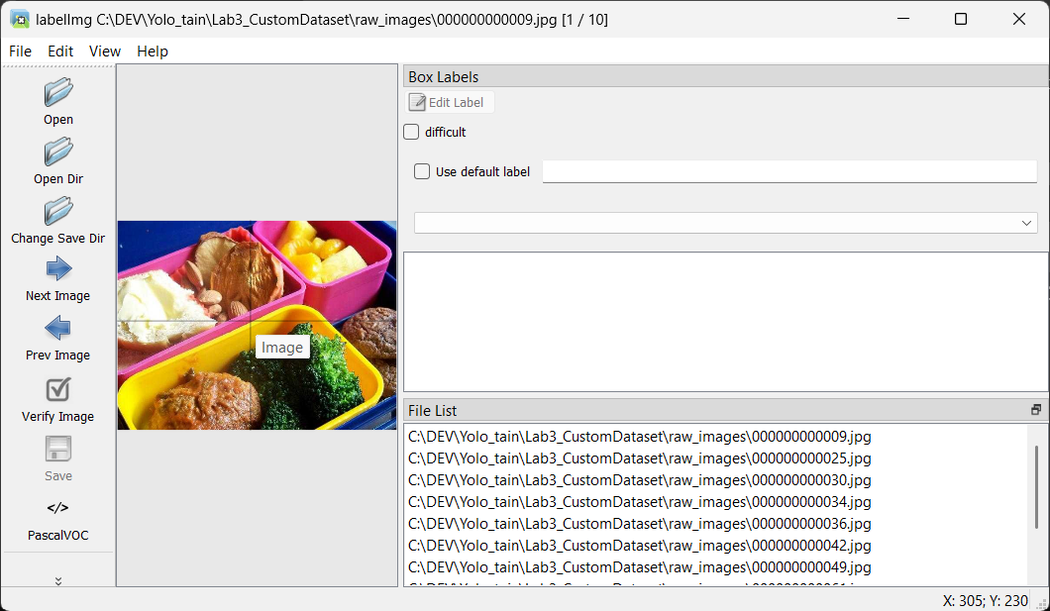
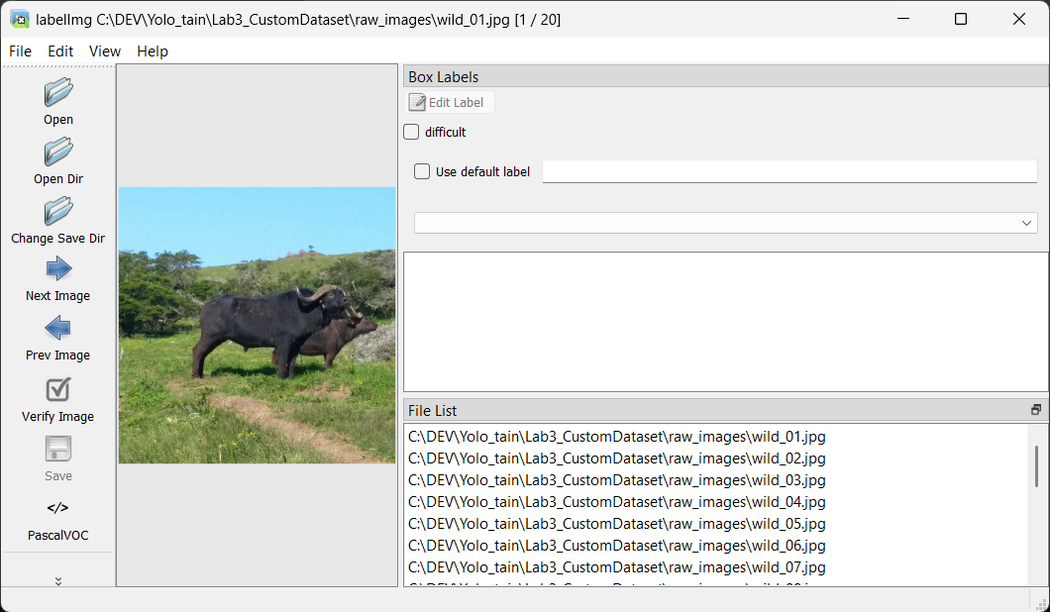
Lab4: two training runs that measure what data quantity is worth
Lab 4 was three paragraphs of hyperparameter advice with no numbers behind it.
It now runs the same problem twice - once on the 20 images the student labelled
in Lab 3, once on the full african-wildlife set - and only then moves on to
tuning, because the comparison shows tuning is the smaller lever.

Scripts: train_baseline (Lab 3 dataset), train_full (african-wildlife),
train_custom (env-var driven), and compare_runs.py, which reads results.csv
from every run and tabulates the best epoch of each ranked by mAP50-95.
Dropped the relative project= that would have nested output under
runs/detect/Lab4_TrainTuning/runs, and set batch=8 because 4GB cards do not
survive 16 at imgsz=640.

The runs, both on this machine:
- 20 images  -> mAP50-95 0.553, recall 0.500, elephant 0.000 despite ten
  elephants in val. The model misses half of everything while mAP50 0.621
  gives no hint of it.
- 1052 images -> mAP50-95 0.811, recall 0.910, elephant 0.953. 47% better
  mAP50-95 with no hyperparameter touched, for 13 minutes instead of 30 seconds.

The manual reads those two runs for three lessons: never trust the aggregate
over the per-class table, never trust a metric measured on one val instance
(buffalo scores 0.995 on a single val object in round 1 and 0.959 on 89 in
round 2 - the lower number is the trustworthy one), and ask whether there is
enough data before asking which knob to turn.

Lab 3 figures: main window and draw mode retaken with the wildlife images. The
[…]

diff --git a/Lab4_TrainTuning/manual.html b/Lab4_TrainTuning/manual.html
@@ -50,6 +50,14 @@ footer{margin-top:50px;color:var(--muted);font-size:12px;text-align:center}
 .top-index a{color:#7dbaff;text-decoration:none}
 .grid{display:grid;grid-template-columns:1fr 1fr;gap:14px}
 @media(max-width:640px){.grid{grid-template-columns:1fr}}
+figure{margin:18px 0;background:var(--panel2);border:1px solid var(--border);border-radius:12px;padding:12px}
+figure img{display:block;width:100%;height:auto;border-radius:8px}
+figcaption{color:var(--muted);font-size:13px;margin-top:10px;text-align:center}
+.walk{background:var(--panel2);border:1px solid var(--border);border-left:4px solid var(--accent2);border-radius:8px;padding:14px 18px;margin:16px 0}
+.walk h4{margin:0 0 10px;font-size:15px;color:var(--accent2)}
+.walk table{font-size:13.5px}
+.walk td:first-child{white-space:nowrap;vertical-align:top;color:#7dd3fc;font-family:Consolas,monospace}
+.out{border-left:4px solid var(--muted)}
 </style>
 </head>
 <body>
@@ -63,49 +71,158 @@ footer{margin-top:50px;color:var(--muted);font-size:12px;text-align:center}
 <div class="card">
 <h2>🎯 วัตถุประสงค์</h2>
 <ul>
-<li>Train YOLO ด้วย Dataset ของตัวเอง (จาก Lab 3)</li>
-<li>ทดลองปรับ Hyperparameter: <code>epochs</code>, <code>imgsz</code>, ขนาดโมเดล (n/s/m) เพื่อหาค่าที่เหมาะสมที่สุด</li>
+<li>เทรนโจทย์เดียวกัน <b>2 รอบ</b> — รอบแรกด้วย 20 รูปที่ label เองใน Lab 3 อีกรอบด้วยชุดเต็มพันกว่ารูป — แล้ววัดว่าต่างกันแค่ไหน</li>
+<li>ทดลองปรับ Hyperparameter (<code>epochs</code>, <code>imgsz</code>, ขนาดโมเดล) แล้วเทียบผลอย่างเป็นระบบ</li>
+<li>ตอบให้ได้ว่า <b>ระหว่าง "เพิ่มข้อมูล" กับ "ปรับค่า" อะไรให้ผลมากกว่ากัน</b></li>
 </ul>
 </div>
 
+<div class="card">
+<h2>🗺 Lab นี้จะทำอะไร</h2>
+<div class="filetree">รอบที่ 1  train_baseline.bat  -> 20 รูปที่คุณ label เอง (Lab 3)   -> runs\detect\baseline\
+รอบที่ 2  train_full.bat      -> african-wildlife ชุดเต็ม ~1,050 รูป -> runs\detect\full\
+                                 (คลาสเดียวกันเป๊ะ: buffalo/elephant/rhino/zebra)
+รอบที่ 3+ train_custom.bat    -> ปรับค่าแล้วลองใหม่                  -> runs\detect\exp\
+
+          compare_runs.bat    -> เอาทุกรอบมาเรียงเทียบกันในตารางเดียว</div>
+<p><b>รอบที่ 1 กับ 2 ต่างกันแค่จำนวนข้อมูลอย่างเดียว</b> — คลาสเหมือนกัน โมเดลตั้งต้นเหมือนกัน ค่าอื่นเหมือนกันหมด
+สิ่งที่ได้จึงเป็นคำตอบตรง ๆ ว่าจำนวนข้อมูลมีผลแค่ไหน</p>
+</div>
+
 <div class="step"><span class="n">Step 1</span>
-<h3>Train ด้วยค่าพื้นฐาน (Baseline)</h3>
+<h3>รอบที่ 1 — เทรนด้วยข้อมูลที่ label เอง</h3>
 <pre>cd Lab4_TrainTuning\scripts
 .\train_baseline.bat</pre>
-<p>ค่าเริ่มต้น: <code>model=yolo11n.pt epochs=50 imgsz=640</code> — จดผลลัพธ์ mAP ที่ได้ไว้เป็นค่าฐาน (baseline)</p>
+<p>ใช้ <code>Lab3_CustomDataset\dataset\data.yaml</code> ที่ได้จาก Lab 3 (20 รูป แบ่งเป็น train 16 / val 4)
+ค่าที่ใช้: <code>model=yolo11n.pt epochs=50 imgsz=640 batch=8</code> — เทรนเสร็จในไม่กี่นาที</p>
+
+<h4>ผลที่ได้จริง</h4>
+<pre class="out">                   all          4         15      0.689        0.5      0.621      0.553
+               buffalo          1          1      0.959          1      0.995      0.995
+              elephant          1         10          0          0          0          0
+                 rhino          1          2      0.798          1      0.995       0.92
+                 zebra          1          2          1          0      0.495      0.297</pre>
+<div class="danger"><b>ดูบรรทัด <code>elephant</code> ให้ดี — ได้ 0 ทุกช่อง</b><br>
+ทั้งที่ในชุด val มีช้างอยู่ <b>10 ตัว</b> ซึ่งมากที่สุดในบรรดาทุกคลาส แต่โมเดล<b>หาไม่เจอเลยแม้แต่ตัวเดียว</b><br>
+สาเหตุคือในชุด train 16 รูป มีตัวอย่างช้างน้อยเกินกว่าที่โมเดลจะเรียนรู้ได้ ส่วน <code>buffalo</code> กับ <code>rhino</code> ที่ได้ 0.995 นั้นก็ไม่ได้แปลว่าเก่งจริง — มีตัวอย่างใน val แค่คลาสละ 1-2 ตัว ทายถูกตัวเดียวก็เต็มแล้ว<br>
+<b>นี่คือหน้าตาของโมเดลที่ข้อมูลไม่พอ</b> ตัวเลขรวม mAP50 = 0.621 ดูเหมือนพอใช้ได้ แต่พอแยกรายคลาสจะเห็นว่ามันใช้งานจริงไม่ได้เลย</div>
+<div class="tip"><b>บทเรียนที่ 1: อย่าดูแต่ตัวเลขรวม</b> — ตารางแยกรายคลาสคือที่ที่ปัญหาจริงซ่อนอยู่ ค่า mAP รวมเฉลี่ยความล้มเหลวของคลาสหนึ่งกลบไปกับความสำเร็จของอีกคลาสได้เสมอ</div>
 </div>
 
 <div class="step"><span class="n">Step 2</span>
-<h3>ทดลองปรับค่าทีละตัว</h3>
-<p>แก้ไขค่าตัวแปรด้านบนของไฟล์ <code>train_custom.bat</code> แล้วรันซ้ำ เปรียบเทียบผลลัพธ์:</p>
-<table>
-<tr><th>พารามิเตอร์</th><th>ผลกระทบ</th></tr>
-<tr><td><code>epochs</code></td><td>รอบการเรียนรู้ยิ่งมาก โมเดลยิ่งแม่น แต่เสี่ยง overfitting และใช้เวลานานขึ้น</td></tr>
-<tr><td><code>imgsz</code></td><td>ภาพยิ่งใหญ่ ยิ่งเห็นรายละเอียดเล็กๆ ได้ดีขึ้น แต่ใช้ VRAM/เวลามากขึ้น</td></tr>
-<tr><td><code>model</code></td><td>n (nano) เร็วสุด เหมาะ Edge, m/l แม่นขึ้นแต่หนักขึ้น</td></tr>
-<tr><td><code>batch</code></td><td>batch ใหญ่เทรนเสถียรกว่า แต่ต้องมี VRAM พอ</td></tr>
-</table>
-<pre>set EPOCHS=100
-set IMGSZ=640
-set MODEL=yolo11s.pt
-set BATCH=16
+<h3>รอบที่ 2 — เทรนด้วยชุดเต็ม</h3>
+<pre>.\train_full.bat</pre>
+<p>โจทย์เดิม คลาสเดิม ค่าเดิมทุกอย่าง เปลี่ยนแค่ข้อมูลจาก 20 รูปเป็น <b>1,052 รูป</b>
+(ครั้งแรกจะดาวน์โหลด ~100 MB ถ้ายังไม่ได้รัน <code>prefetch.bat</code> จาก Lab 0)</p>
+<div class="warn">รอบนี้ใช้เวลาจริงประมาณ <b>13 นาที</b> บนการ์ด RTX 3050 Ti (4 GB) — ถ้าเครื่องช้ากว่านี้อาจถึงครึ่งชั่วโมง ปล่อยให้มันรันไป ระหว่างนั้นไปอ่านหัวข้อ Hyperparameter ข้างล่างก่อนได้</div>
 
-cd Lab4_TrainTuning\scripts
-.\train_custom.bat</pre>
+<h4>ผลที่ได้จริง</h4>
+<figure>
+  <img src="../docs/images/lab4_full_result.png" alt="ผลการเทรนชุดเต็ม แสดง mAP50 0.961 และผลแยกรายคลาสทั้งสี่">
+  <figcaption>ท้ายผลการเทรนรอบที่ 2 — เทียบบรรทัด <code>elephant</code> กับรอบแรกที่ได้ 0 ทุกช่อง</figcaption>
+</figure>
+<table>
+<thead><tr><th>คลาส</th><th>รอบ 1 (20 รูป) mAP50</th><th>รอบ 2 (1,052 รูป) mAP50</th></tr></thead>
+<tbody>
+<tr><td><code>buffalo</code></td><td>0.995 <span style="color:#9aa4b2">(val มี 1 ตัว)</span></td><td>0.959 <span style="color:#9aa4b2">(val มี 89 ตัว)</span></td></tr>
+<tr><td><code>elephant</code></td><td><b style="color:#ef4444">0.000</b></td><td><b style="color:#22c55e">0.953</b></td></tr>
+<tr><td><code>rhino</code></td><td>0.995 <span style="color:#9aa4b2">(val มี 2 ตัว)</span></td><td>0.970</td></tr>
+<tr><td><code>zebra</code></td><td>0.495</td><td>0.962</td></tr>
+</tbody>
+</table>
+<div class="tip"><b>บทเรียนที่ 2: ตัวเลขที่ดูสวยจาก val ชุดเล็ก เชื่อไม่ได้</b> — <code>buffalo</code> ในรอบแรกได้ 0.995 ซึ่ง<i>สูงกว่า</i>รอบที่สองที่ได้ 0.959 เสียอีก แต่รอบแรกวัดจากควายตัวเดียว ส่วนรอบสองวัดจาก 89 ตัว<br>
+เลข 0.959 ที่วัดจาก 89 ตัวอย่าง <b>น่าเชื่อถือกว่า</b> เลข 0.995 ที่วัดจากตัวอย่างเดียวมาก — เวลาอ่านผล ให้ดูคอลัมน์ <code>Instances</code> ควบคู่ไปด้วยเสมอ</div>
 </div>
 
 <div class="step"><span class="n">Step 3</span>
-<h3>เปรียบเทียบผลลัพธ์แต่ละรอบ</h3>
-<p>แต่ละครั้งที่ Train ผลจะถูกเก็บแยกโฟลเดอร์ (<code>runs\exp1</code>, <code>runs\exp2</code>, ...) ให้เปิด <code>results.png</code> ของแต่ละรอบเทียบกัน และจดค่า <b>mAP50-95</b> ลงตาราง</p>
+<h3>เอาสองรอบมาเทียบกัน</h3>
+<pre>.\compare_runs.bat</pre>
+<p>สคริปต์จะอ่าน <code>results.csv</code> ของทุกรอบใน <code>runs\detect\</code> แล้วดึงค่าของ epoch ที่ดีที่สุดมาเรียงให้
+(ระบุชื่อรอบต่อท้ายได้ถ้าอยากเลือกเฉพาะบางรอบ เช่น <code>.\compare_runs.bat baseline full</code>)</p>
+<figure>
+  <img src="../docs/images/lab4_compare.png" alt="ตารางเทียบผลรอบ baseline กับ full">
+  <figcaption>ตารางจริงจากการรันทั้งสองรอบบนเครื่องเดียวกัน</figcaption>
+</figure>
+<table>
+<thead><tr><th>ตัวชี้วัด</th><th>20 รูป</th><th>1,052 รูป</th><th>ดีขึ้น</th></tr></thead>
+<tbody>
+<tr><td><b>mAP50-95</b></td><td>0.553</td><td>0.811</td><td>+47%</td></tr>
+<tr><td>mAP50</td><td>0.621</td><td>0.961</td><td>+55%</td></tr>
+<tr><td>precision</td><td>0.692</td><td>0.954</td><td>+38%</td></tr>
+<tr><td><b>recall</b></td><td>0.500</td><td>0.910</td><td><b>+82%</b></td></tr>
+<tr><td>เวลาเทรน</td><td>0.5 นาที</td><td>13.2 นาที</td><td>ช้าลง 26 เท่า</td></tr>
+</tbody>
+</table>
+<div class="danger"><b>ดู recall ให้ดี: 0.500 แปลว่าโมเดลรอบแรกมองข้ามวัตถุไปครึ่งหนึ่ง</b><br>
+เจอเท่าไรก็ทายค่อนข้างถูก (precision 0.692) แต่<b>หาไม่เจอตั้งครึ่ง</b> — ถ้าเอาโมเดลแบบนี้ไปคัดของบนสายพานใน Lab 9 ของเสียครึ่งหนึ่งจะไหลผ่านไปหน้าตาเฉย โดยที่ตัวเลข mAP50 = 0.621 ไม่ได้ส่งสัญญาณอะไรให้เลย</div>
+
+<figure>
+  <img src="../docs/images/lab4_full_results.png" alt="กราฟ results.png ของรอบชุดเต็ม แสดง loss ลดลงและ mAP ไต่ขึ้นอย่างต่อเนื่อง">
+  <figcaption><code>runs\detect\full\results.png</code> — เทียบกับกราฟของ Lab 1 ที่เส้นกระโดดขึ้นลงและ recall แบนราบ รอบนี้ทุกเส้นเรียบและไต่ขึ้นต่อเนื่อง เพราะแต่ละ epoch เห็นข้อมูลมากพอ</figcaption>
+</figure>
+
+<div class="card">
+<h3>💡 สรุปบทเรียนหลักของ Lab นี้</h3>
+<p>การเพิ่มข้อมูลจาก 20 เป็น 1,052 รูป ทำให้ <b>mAP50-95 ขึ้น 47%</b> โดยไม่ได้แตะค่า hyperparameter สักตัว</p>
+<p>ในทางปฏิบัติ การปรับ <code>epochs</code>, <code>imgsz</code>, ขนาดโมเดล มักช่วยได้ในระดับ <b>ไม่กี่เปอร์เซ็นต์</b> เท่านั้น
+เทียบกันแล้วคนละสเกล — <b>ถ้าโมเดลยังไม่ดีพอ คำถามแรกที่ควรถามคือ "ข้อมูลพอหรือยัง" ไม่ใช่ "ปรับค่าอะไรดี"</b></p>
+<p>คุณเพิ่งใช้เวลาราว 20 นาที label 20 รูปใน Lab 3 — ลองคิดดูว่า 1,052 รูปต้องใช้เวลาเท่าไร นั่นคือเหตุผลที่งาน AI จริง ๆ
+หมดเวลาไปกับการเตรียมข้อมูลมากกว่าการเทรนโมเดลเสมอ</p>
+</div>
 </div>
 
-<div class="tip">เทคนิค: เริ่มจาก epochs น้อยๆ (เช่น 20) เพื่อดูว่าระบบรันได้ก่อน แล้วค่อยเพิ่มเป็นค่าจริงเมื่อมั่นใจว่า pipeline ถูกต้อง จะประหยัดเวลามาก</div>
+<div class="walk">
+<h4>🔍 ในสคริปต์มีอะไร — ทั้ง 3 ตัวต่างกันแค่บรรทัดเดียว</h4>
+<pre>train_baseline.bat : yolo detect train data=Lab3_CustomDataset\dataset\data.yaml model=yolo11n.pt epochs=50 imgsz=640 batch=8 name=baseline
+train_full.bat     : yolo detect train data=african-wildlife.yaml            model=yolo11n.pt epochs=50 imgsz=640 batch=8 name=full
+train_custom.bat   : yolo detect train data=%DATA%  model=%MODEL% epochs=%EPOCHS% imgsz=%IMGSZ% batch=%BATCH% name=%NAME%</pre>
+<table>
+<tbody>
+<tr><td>data=</td><td><b>จุดเดียวที่ต่างกันระหว่างรอบ 1 กับรอบ 2</b> — ที่เหลือเหมือนกันหมด ผลที่ต่างกันจึงมาจากข้อมูลล้วน ๆ<br><code>african-wildlife.yaml</code> เป็นชื่อชุดข้อมูลที่มีมากับ Ultralytics ไม่ใช่ไฟล์ในเครื่องเรา ถ้ายังไม่มีมันจะดาวน์โหลดให้เอง</td></tr>
+<tr><td>name=</td><td>ชื่อโฟลเดอร์ผลลัพธ์ใต้ <code>runs\detect\</code> — ตั้งให้สื่อ จะได้ย้อนดูทีหลังรู้เรื่อง</td></tr>
+<tr><td>batch=8</td><td>ลดจากค่าเริ่มต้น 16 เพราะการ์ด 4 GB เอาไม่อยู่ที่ <code>imgsz=640</code> — ถ้าการ์ดใหญ่กว่านี้ปรับขึ้นได้</td></tr>
+<tr><td>ไม่มี project=</td><td>ตั้งใจไม่ใส่ ถ้าใส่เป็น path แบบ relative ผลลัพธ์จะไปซ้อนกลายเป็น <code>runs\detect\Lab4_TrainTuning\runs\...</code> แล้ว Lab 5-6 จะหาไฟล์ไม่เจอ</td></tr>
+<tr><td>if not exist %DATA%</td><td>เฉพาะ <code>train_baseline.bat</code> — ด่านตรวจว่าทำ Lab 3 มาแล้วจริง ถ้ายังไม่มีจะบอกให้กลับไปทำก่อน แทนที่จะพ่น error ของ Python</td></tr>
+</tbody>
+</table>
+</div>
+
+<div class="step"><span class="n">Step 4</span>
+<h3>ทีนี้ค่อยมาปรับ Hyperparameter</h3>
+<p>พอมีข้อมูลพอแล้ว การปรับค่าถึงจะเริ่มมีความหมาย ใช้ <code>train_custom.bat</code> ซึ่งรับค่าจากตัวแปรที่ตั้งไว้ก่อนรัน</p>
+<pre>set EPOCHS=100
+set NAME=exp_e100
+.\train_custom.bat</pre>
+<div class="warn"><b>เปลี่ยนทีละค่า และตั้ง <code>NAME</code> ให้สื่อทุกครั้ง</b> — ถ้าเปลี่ยนสามค่าพร้อมกันแล้วผลดีขึ้น จะไม่มีทางรู้ว่าค่าไหนเป็นตัวช่วย และถ้าไม่ตั้งชื่อ โฟลเดอร์จะกลายเป็น <code>exp</code>, <code>exp2</code>, <code>exp3</code> ที่ดูทีหลังแล้วจำไม่ได้ว่าอันไหนคืออะไร</div>
+<table>
+<thead><tr><th>ตัวแปร</th><th>ค่าเริ่มต้น</th><th>ผลกระทบ</th></tr></thead>
+<tbody>
+<tr><td><code>EPOCHS</code></td><td>50</td><td>จำนวนรอบที่วนดูข้อมูลทั้งชุด — มากขึ้นมักแม่นขึ้น จนถึงจุดที่เริ่ม overfit (ดูได้จาก <code>val/cls_loss</code> ใน <code>results.png</code> ที่กลับหัวขึ้น)</td></tr>
+<tr><td><code>IMGSZ</code></td><td>640</td><td>ขนาดภาพเข้าโมเดล — ใหญ่ขึ้นช่วยเรื่องวัตถุเล็ก แต่กิน VRAM และเวลาเป็นสัดส่วนกำลังสอง (จาก 640 เป็น 1280 = หนักขึ้น ~4 เท่า)</td></tr>
+<tr><td><code>MODEL</code></td><td>yolo11n.pt</td><td><code>n</code> nano เร็วสุด · <code>s</code> small · <code>m</code> medium แม่นขึ้นแต่หนักขึ้น — <b>สำคัญมากสำหรับ Lab 7-8</b> ที่ต้องเอาไปรันบน Raspberry Pi</td></tr>
+<tr><td><code>BATCH</code></td><td>8</td><td>จำนวนภาพต่อรอบคำนวณ — ใหญ่ขึ้นเทรนนิ่งกว่าแต่กิน VRAM มากขึ้น ตั้งไว้ที่ 8 เพราะการ์ด 4 GB รับ 16 ไม่ไหวเมื่อ <code>imgsz=640</code></td></tr>
+<tr><td><code>DATA</code></td><td>african-wildlife.yaml</td><td><b>ตอนทำโครงงานจริง เปลี่ยนตรงนี้</b> เป็น path ของ <code>data.yaml</code> กลุ่มตัวเอง ที่เหลือทำเหมือนเดิมทุกอย่าง</td></tr>
+</tbody>
+</table>
+<div class="tip"><b>ประหยัดเวลา:</b> ลองด้วย <code>EPOCHS=5</code> ก่อนทุกครั้งที่เปลี่ยนอะไรใหญ่ ๆ เพื่อดูว่ารันผ่านจริงไหม แล้วค่อยตั้งค่าจริง — ดีกว่ารอ 20 นาทีแล้วมาพังตอนจบ</div>
+</div>
+
+<div class="step"><span class="n">Step 5</span>
+<h3>สรุปผลการทดลอง</h3>
+<p>รัน <code>.\compare_runs.bat</code> อีกครั้งเมื่อทดลองครบ แล้วจดลงตารางในรายงาน พร้อมตอบคำถามว่า</p>
+<ul>
+<li>การเพิ่มข้อมูลจาก 20 เป็น 1,050 รูป ทำให้ mAP50-95 ขึ้นกี่เท่า</li>
+<li>การปรับ hyperparameter ที่ดีที่สุดที่ทำได้ ทำให้ขึ้นอีกกี่ %</li>
+<li>ถ้ามีเวลาเหลืออีก 1 วัน จะเอาไปเก็บข้อมูลเพิ่ม หรือเอาไปปรับค่า เพราะอะไร</li>
+</ul>
+</div>
 
 <div class="deliverable">
 <h2>📦 ผลลัพธ์ที่ต้องได้</h2>
 <ul class="checklist">
-<li>ตารางเปรียบเทียบผลการทดลองอย่างน้อย 3 ชุดพารามิเตอร์</li>
-<li>โมเดล <code>best.pt</code> ที่ได้ค่า mAP ดีที่สุดของกลุ่ม (ใช้ต่อใน Lab 5)</li>
+<li>ตารางจาก <code>compare_runs.bat</code> ที่มีทั้งรอบ 20 รูป, รอบชุดเต็ม และรอบปรับค่าอย่างน้อย 2 แบบ</li>
+<li>โมเดล <code>runs\detect\full\weights\best.pt</code> (หรือรอบที่ดีกว่า) สำหรับใช้ต่อใน Lab 5-8</li>
+<li>อธิบายได้ว่าทำไมคลาส <code>elephant</code> ถึงได้ 0 ในรอบแรก และอะไรทำให้มันดีขึ้น</li>
 </ul>
 </div>
 

diff --git a/Lab4_TrainTuning/scripts/compare_runs.py b/Lab4_TrainTuning/scripts/compare_runs.py
@@ -1,0 +1,103 @@
+"""Lab 4 - เอาผลของทุกรอบการเทรนมาเรียงเทียบกันในตารางเดียว
+
+อ่าน runs/detect/*/results.csv ที่ Ultralytics เขียนไว้ให้ทุกรอบ
+แล้วดึงค่าของ epoch ที่ดีที่สุด (ยึด mAP50-95 เหมือนที่ YOLO ใช้เลือก best.pt)
+
+    python compare_runs.py                 เทียบทุกรอบที่มี
+    python compare_runs.py baseline full   เลือกเฉพาะบางรอบ
+"""
+import csv
+import sys
+from pathlib import Path
+
+ROOT = Path(__file__).resolve().parent.parent.parent
+RUNS = ROOT / "runs" / "detect"
+
+COLUMNS = [
+    ("mAP50-95", "metrics/mAP50-95(B)"),
+    ("mAP50", "metrics/mAP50(B)"),
+    ("precision", "metrics/precision(B)"),
+    ("recall", "metrics/recall(B)"),
+]
+
+
+def read_run(run_dir):
+    csv_path = run_dir / "results.csv"
+    if not csv_path.exists():
+        return None
+    with open(csv_path, newline="", encoding="utf-8") as f:
+        rows = [{k.strip(): v for k, v in row.items()} for row in csv.DictReader(f)]
+    if not rows:
+        return None
+
+    key = COLUMNS[0][1]
+    if key not in rows[0]:
+        return None
+    best = max(rows, key=lambda r: float(r.get(key) or 0))
+    return {
+        "epochs": len(rows),
+        "best_epoch": int(float(best.get("epoch", 0))),
+        "time_s": float(rows[-1].get("time") or 0),
+        "values": {label: float(best.get(col) or 0) for label, col in COLUMNS},
+    }
+
+
+def count_images(run_dir):
+    """อ่านจำนวนภาพ train จาก args.yaml -> data.yaml เพื่อให้เห็นว่ารอบนั้นเทรนด้วยข้อมูลเท่าไร"""
+    args_file = run_dir / "args.yaml"
+    if not args_file.exists():
+        return ""
+    data = ""
+    for line in args_file.read_text(encoding="utf-8").splitlines():
+        if line.startswith("data:"):
+            data = line.split(":", 1)[1].strip()
+            break
+    if not data:
+        return ""
+    try:
+        from ultralytics.data.utils import check_det_dataset
+
+        info = check_det_dataset(data)
+        train = Path(info["train"])
+        n = len(list(train.glob("*.jpg"))) + len(list(train.glob("*.png")))
+        return f"{n}"
+    except Exception:  # noqa: BLE001 - ถ้าหา dataset ไม่เจอก็แค่เว้นช่องว่างไว้
+        return ""
+
+
+def main():
+    wanted = sys.argv[1:]
+    if not RUNS.exists():
+        raise SystemExit(f"No runs found at {RUNS}. Train something first.")
+
+    dirs = sorted(d for d in RUNS.iterdir() if d.is_dir() and (d / "results.csv").exists())
+    if wanted:
+        dirs = [d for d in dirs if d.name in wanted]
+    if not dirs:
+        raise SystemExit("No training runs with results.csv found.")
+
+    rows = []
+    for d in dirs:
+        info = read_run(d)
+        if info:
+            rows.append((d.name, info, count_images(d)))
+    if not rows:
+        raise SystemExit("Found run folders but none had usable results.csv (predict runs have none).")
+
+    name_w = max(len(n) for n, _, _ in rows) + 2
+    header = f"{'run':<{name_w}}{'imgs':>6}{'epochs':>8}{'best@':>7}" + "".join(
+        f"{label:>11}" for label, _ in COLUMNS) + f"{'time':>9}"
+    print(header)
+    print("-" * len(header))
+    for name, info, imgs in rows:
+        line = f"{name:<{name_w}}{imgs:>6}{info['epochs']:>8}{info['best_epoch']:>7}"
+        line += "".join(f"{info['values'][label]:>11.3f}" for label, _ in COLUMNS)
+        line += f"{info['time_s'] / 60:>8.1f}m"
+        print(line)
+
+    print("\nAll numbers are from the best epoch of each run, ranked by mAP50-95")
+    print("(the same measure YOLO uses when it decides which weights to keep as best.pt).")
+
+
+if __name__ == "__main__":
+    main()

diff --git a/docs/MANUAL_PLAN.md b/docs/MANUAL_PLAN.md
@@ -27,11 +27,11 @@
 
 | Lab | สคริปต์ทดสอบผ่าน | คำอธิบาย+อ่านผล | ภาพประกอบ | สรุป |
 |-----|---|---|---|---|
-| Lab 0 Setup | ✅ | ✅ | ✅ 2 ใบ | **เสร็จ** |
+| Lab 0 Setup | ✅ | ✅ | ✅ 3 ใบ | **เสร็จ** (+ prefetch.bat) |
 | Lab 1 TrainReadyDataset | ✅ | ✅ | ✅ 3 ใบ | **เสร็จ** |
 | Lab 2 Inference | ✅ | ✅ | ✅ 4 ใบ | **เสร็จ** |
-| Lab 3 CustomDataset | ✅ | ✅ | ✅ 4 ใบ | **เสร็จ** |
-| Lab 4 TrainTuning | ❌ | ❌ | ❌ | ยกไปทำวันหลัง |
+| Lab 3 CustomDataset | ✅ | ✅ | ⚠ 6 ใบ (3 ใบต้องถ่ายใหม่) | **เสร็จ** — ปรับเป็นแบบฝึก label + มีเฉลย |
+| Lab 4 TrainTuning | ✅ | ✅ | ✅ | **เสร็จ** — เทรน 2 รอบเทียบกัน |
 | Lab 5 Evaluation | ❌ | ❌ | ❌ | ยกไปทำวันหลัง |
 | Lab 6 Export | ❌ | ❌ | ❌ | ยกไปทำวันหลัง |
 | Lab 7 RaspberryPi | ❌ | ❌ | ❌ | ต้องมีเครื่อง Pi |
@@ -39,7 +39,10 @@
 | Lab 9 ConveyorGPIO | ❌ | ❌ | ❌ | ต้องมี Pi + ชุดสายพาน |
 | Lab 10 MiniProject | ❌ | ❌ | ❌ | ทำหลัง Lab 4-6 เสร็จ |
 
-**ขอบเขตรอบนี้ (Lab 0-3) เสร็จครบแล้ว** — งานถัดไปเริ่มที่ Lab 4 พร้อมแก้บั๊กในข้อ 6
+**Lab 0-4 เสร็จครบแล้ว** — งานถัดไปเริ่มที่ Lab 5 พร้อมแก้บั๊กในข้อ 6
+
+ค้างอยู่อย่างเดียว: ภาพ labelImg 3 ใบของ Lab 3 ยังเป็นภาพเก่า (รูป COCO + คลาส person/animal)
+ต้องถ่ายใหม่ให้เป็นรูปสัตว์กับคลาส buffalo/elephant/rhino/zebra
 
 ---
 
